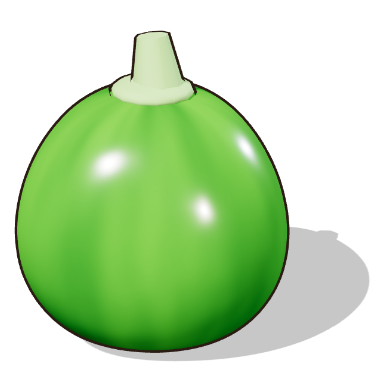
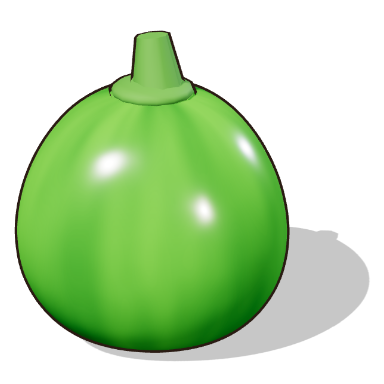
3D groceries batch 2: cans, bottles, jars, cartons, eggs, dairy (24 items); fix model colours
Claude-Session: https://claude.ai/code/session_01Q6acPGXMvifxRn5d1e25uG

Changed region(s): [[0.2812, 0.0625, 0.5, 0.2812]]

diff --git a/tools/render3d/models2.js b/tools/render3d/models2.js
@@ -1,0 +1,110 @@
+// Batch 2: cans, bottles, jars, cartons, eggs, dairy blocks. Real sizes in cm. Labels are painted on canvases.
+import { INK, lin } from './models.js';
+const clamp = (x, a = 0, b = 1) => Math.min(b, Math.max(a, x));
+function label(T, fn, w = 1024, h = 512) { const c = document.createElement('canvas'); c.width = w; c.height = h; const g = c.getContext('2d'); fn(g, w, h); const t = new T.CanvasTexture(c); t.encoding = T.sRGBEncoding; t.anisotropy = 8; return t; }
+const std = (T, o) => new T.MeshPhysicalMaterial(Object.assign({ roughness: .4, metalness: 0, clearcoat: .35, clearcoatRoughness: .3 }, o, o.color !== undefined ? { color: lin(T, o.color) } : {}));
+const metal = (T) => new T.MeshStandardMaterial({ color: lin(T, 0xd9dee3), metalness: .55, roughness: .38 });
+function add(T, G, geo, m, p, r, s) { const x = new T.Mesh(geo, m); x.castShadow = x.receiveShadow = true; if (p) x.position.set(...p); if (r) x.rotation.set(...r); if (s) x.scale.set(...s); G.add(x); return x; }
+// the front of a wrapped label is at the middle of the canvas (u = .5)
+const front = (m) => { m.rotation.y = Math.PI - .35; return m; };
+const rr = (g, x, y, w, h, r) => { g.beginPath(); g.moveTo(x + r, y); g.arcTo(x + w, y, x + w, y + h, r); g.arcTo(x + w, y + h, x, y + h, r); g.arcTo(x, y + h, x, y, r); g.arcTo(x, y, x + w, y, r); g.closePath(); };
+const circ = (g, x, y, r, c, ink) => { g.beginPath(); g.arc(x, y, r, 0, 7); g.fillStyle = c; g.fill(); if (ink) { g.strokeStyle = INK; g.lineWidth = ink; g.stroke(); } };
+
+function can(T, o) {
+  const G = new T.Group(); const { r, h } = o;
+  const tex = label(T, (g, w, hh) => { g.fillStyle = o.paper; g.fillRect(0, 0, w, hh); g.fillStyle = o.band; g.fillRect(0, 0, w, hh * .13); g.fillRect(0, hh * .87, w, hh * .13);
+    g.fillStyle = 'rgba(255,255,255,.92)'; rr(g, w * .27, hh * .2, w * .46, hh * .6, 40); g.fill(); g.strokeStyle = o.band; g.lineWidth = 8; g.stroke(); o.icon(g, w * .5, hh * .5, hh); });
+  front(add(T, G, new T.CylinderGeometry(r, r, h, 72, 1, true), std(T, { map: tex, roughness: .5, clearcoat: .2 }), [0, 0, 0]));
+  add(T, G, new T.CylinderGeometry(r * .985, r * .985, .3, 72), metal(T), [0, h / 2 - .1, 0]); add(T, G, new T.CylinderGeometry(r * .985, r * .985, .3, 72), metal(T), [0, -h / 2 + .1, 0]);
+  add(T, G, new T.TorusGeometry(r * .985, .13, 10, 72), metal(T), [0, h / 2 + .05, 0], [Math.PI / 2, 0, 0]); add(T, G, new T.TorusGeometry(r * .985, .13, 10, 72), metal(T), [0, -h / 2 - .05, 0], [Math.PI / 2, 0, 0]);
+  add(T, G, new T.TorusGeometry(r * .6, .06, 8, 40), metal(T), [0, h / 2 + .12, 0], [Math.PI / 2, 0, 0]); G.rotation.y = 0; return { g: G, dims: [r * 2, h, r * 2] };
+}
+function bottle(T, o) {
+  const G = new T.Group(); const { r, h, nr, nh } = o; // body radius, total height, neck radius, neck height
+  const pts = []; const sh = h - nh - (o.cap || 2); const bodyTop = -h / 2 + sh;
+  pts.push([0.001, -h / 2]); pts.push([r * .7, -h / 2 + .05]); pts.push([r * .97, -h / 2 + r * .25]); pts.push([r, -h / 2 + r * .6]); pts.push([r, bodyTop - r * .7]);
+  for (let i = 1; i <= 10; i++) { const t = i / 10, e = t * t * (3 - 2 * t); pts.push([r + (nr - r) * e, bodyTop - r * .7 + (r * .7 + r * .5) * t]); }
+  pts.push([nr, h / 2 - (o.cap || 2) - .1]);
+  const geo = new T.LatheGeometry(pts.map((p) => new T.Vector2(p[0], p[1])), 72);
+  const tex = label(T, (g, w, hh) => { g.fillStyle = o.glass; g.fillRect(0, 0, w, hh); o.label(g, w, hh); });
+  const body = new T.Mesh(geo, std(T, { map: tex, roughness: .12, clearcoat: 1, clearcoatRoughness: .05 })); body.castShadow = body.receiveShadow = true; front(body); G.add(body);
+  add(T, G, new T.CylinderGeometry(nr * 1.08, nr * 1.08, o.cap || 2, 40), std(T, { color: o.capColor, roughness: .35, clearcoat: .5 }), [0, h / 2 - (o.cap || 2) / 2, 0]);
+  if (o.tip) add(T, G, new T.CylinderGeometry(nr * .5, nr * .8, 1.4, 20), std(T, { color: o.capColor }), [0, h / 2 + .5, 0]);
+  return { g: G, dims: [r * 2, h, r * 2] };
+}
+function jar(T, o) {
+  const G = new T.Group(); const { r, h } = o; const lid = o.lid || 1.9;
+  const tex = label(T, (g, w, hh) => { g.fillStyle = o.fill; g.fillRect(0, 0, w, hh); const grd = g.createLinearGradient(0, 0, 0, hh); grd.addColorStop(0, 'rgba(255,255,255,.18)'); grd.addColorStop(1, 'rgba(0,0,0,.12)'); g.fillStyle = grd; g.fillRect(0, 0, w, hh);
+    g.fillStyle = o.paper; rr(g, w * .22, hh * .22, w * .56, hh * .56, 28); g.fill(); g.strokeStyle = o.band; g.lineWidth = 10; g.stroke(); o.icon(g, w * .5, hh * .5, hh); });
+  front(add(T, G, new T.CylinderGeometry(r, r * .97, h - lid, 72, 1, true), std(T, { map: tex, roughness: .12, clearcoat: 1, clearcoatRoughness: .06 }), [0, -lid / 2, 0]));
+  add(T, G, new T.CylinderGeometry(r * .97, r * .97, .3, 72), std(T, { color: o.fill }), [0, -h / 2 + .15, 0]);
+  add(T, G, new T.CylinderGeometry(r * 1.03, r * 1.03, lid, 72), std(T, { color: o.lidColor, roughness: .35, clearcoat: .5 }), [0, h / 2 - lid / 2, 0]);
+  for (let i = 0; i < 36; i++) { const a = i / 36 * 6.283; add(T, G, new T.BoxGeometry(.12, lid * .8, .12), std(T, { color: o.lidColor, roughness: .45 }), [Math.cos(a) * r * 1.035, h / 2 - lid / 2, Math.sin(a) * r * 1.035]); }
+  return { g: G, dims: [r * 2, h, r * 2] };
+}
+function carton(T, o) {
+  const G = new T.Group(); const w = o.w, d = o.w, h = o.h, g0 = o.gable || w * .55;
+  const tex = (front) => label(T, (g, W, H) => { g.fillStyle = o.paper; g.fillRect(0, 0, W, H); g.fillStyle = o.band; g.fillRect(0, H * .52, W, H * .2); if (front) o.icon(g, W * .5, H * .3, H); }, 512, 1024);
+  const side = std(T, { map: tex(false), roughness: .55, clearcoat: .2 }), fr = std(T, { map: tex(true), roughness: .55, clearcoat: .2 });
+  const box = add(T, G, new T.BoxGeometry(w, h, d), [side, side, side, side, fr, side].map((m) => m)); // +x,-x,+y,-y,+z,-z
+  box.material = [side, side, side, side, fr, side]; box.position.y = 0;
+  // gable roof: two slanted panels and two triangular ends
+  const roof = std(T, { color: o.paper, roughness: .55, clearcoat: .2 }), rf = o.roofColor ? std(T, { color: o.roofColor, roughness: .55 }) : roof;
+  const sl = Math.hypot(w / 2, g0); const ang = Math.atan2(g0, w / 2);
+  add(T, G, new T.BoxGeometry(sl, .12, d), roof, [-w / 4, h / 2 + g0 / 2, 0], [0, 0, ang]); add(T, G, new T.BoxGeometry(sl, .12, d), roof, [w / 4, h / 2 + g0 / 2, 0], [0, 0, -ang]);
+  const tri = new T.Shape(); tri.moveTo(-w / 2, 0); tri.lineTo(w / 2, 0); tri.lineTo(0, g0); tri.lineTo(-w / 2, 0);
+  for (const z of [d / 2, -d / 2]) add(T, G, new T.ShapeGeometry(tri), std(T, { color: o.paper, side: T.DoubleSide, roughness: .55 }), [0, h / 2, z]);
+  add(T, G, new T.BoxGeometry(.22, .45, d * 1.04), roof, [0, h / 2 + g0 + .15, 0]);
+  if (o.cap) add(T, G, new T.CylinderGeometry(1.1, 1.2, .8, 24), std(T, { color: o.cap, roughness: .35 }), [w * .17, h / 2 + g0 * .6, d * .05], [0, 0, -ang]);
+  G.rotation.y = -.35; return { g: G, dims: [w, h + g0, d] };
+}
+const bandIcon = (c) => (g, x, y, H) => { g.fillStyle = c; g.beginPath(); g.arc(x, y, H * .1, 0, 7); g.fill(); };
+const tomatoIcon = (g, x, y, H) => { circ(g, x, y, H * .17, '#d9362b', 6); g.fillStyle = '#4a9a2e'; g.beginPath(); g.moveTo(x - 24, y - H * .15); g.lineTo(x, y - H * .22); g.lineTo(x + 24, y - H * .15); g.fill(); };
+const beanIcon = (c) => (g, x, y, H) => { for (const [dx, dy] of [[-40, -16], [30, -24], [-12, 22], [44, 18]]) { g.save(); g.translate(x + dx, y + dy); g.rotate(dx / 60); g.beginPath(); g.ellipse(0, 0, 34, 20, 0, 0, 7); g.fillStyle = c; g.fill(); g.strokeStyle = INK; g.lineWidth = 5; g.stroke(); g.restore(); } };
+const dropIcon = (c) => (g, x, y, H) => { g.fillStyle = c; g.beginPath(); g.moveTo(x, y - H * .16); g.bezierCurveTo(x + H * .2, y + H * .02, x + H * .12, y + H * .18, x, y + H * .18); g.bezierCurveTo(x - H * .12, y + H * .18, x - H * .2, y + H * .02, x, y - H * .16); g.fill(); g.strokeStyle = INK; g.lineWidth = 6; g.stroke(); };
+const stripe = (bg, fg, txt) => (g, w, h) => { g.fillStyle = fg; rr(g, w * .3, h * .25, w * .4, h * .5, 26); g.fill(); g.fillStyle = bg; g.fillRect(w * .3, h * .46, w * .4, h * .1); if (txt) { g.fillStyle = bg; g.font = 'bold 54px Arial'; g.textAlign = 'center'; g.fillText(txt, w * .5, h * .4); } };
+
+export const MODELS2 = {
+  can_tomato: (T) => can(T, { r: 3.65, h: 10.8, paper: '#c8281f', band: '#f2c14e', icon: tomatoIcon }),
+  can_beans: (T) => can(T, { r: 3.65, h: 10.8, paper: '#7a4a2a', band: '#e0a93b', icon: beanIcon('#c9864a') }),
+  can_black: (T) => can(T, { r: 3.65, h: 10.8, paper: '#3a3636', band: '#c9cdd2', icon: beanIcon('#1f1c1c') }),
+  can_chickpea: (T) => can(T, { r: 3.65, h: 10.8, paper: '#d9a84a', band: '#7a4a2a', icon: beanIcon('#f0d58f') }),
+  can_coconut: (T) => can(T, { r: 3.65, h: 11, paper: '#f0ede4', band: '#2f7a4a', icon: (g, x, y, H) => { circ(g, x, y, H * .17, '#7a5230', 6); circ(g, x - 22, y - 14, 10, '#3b2c24'); circ(g, x + 14, y - 22, 10, '#3b2c24'); circ(g, x + 6, y - 2, 10, '#3b2c24'); } }),
+  oil: (T) => bottle(T, { r: 4.6, h: 28, nr: 1.5, nh: 6, cap: 2, glass: '#e8c440', capColor: 0x3f7f25, capColor2: 0, tip: false, label: (g, w, h) => { g.fillStyle = '#f6efd2'; rr(g, w * .3, h * .3, w * .4, h * .42, 24); g.fill(); g.strokeStyle = '#3f7f25'; g.lineWidth = 8; g.stroke(); dropIcon('#9cbf4e')(g, w * .5, h * .52, h); } }),
+  soy: (T) => bottle(T, { r: 3.4, h: 17, nr: 1.2, nh: 3.6, cap: 1.6, glass: '#2a170f', capColor: 0xd9452b, label: (g, w, h) => { g.fillStyle = '#e8dcc0'; rr(g, w * .3, h * .3, w * .4, h * .4, 22); g.fill(); g.strokeStyle = '#d9452b'; g.lineWidth = 8; g.stroke(); circ(g, w * .5, h * .5, h * .07, '#d9452b'); } }),
+  fishsauce: (T) => bottle(T, { r: 3.5, h: 23, nr: 1.3, nh: 5, cap: 1.8, glass: '#c9762e', capColor: 0xd9452b, label: (g, w, h) => { g.fillStyle = '#f6e3b4'; rr(g, w * .3, h * .3, w * .4, h * .4, 22); g.fill(); g.strokeStyle = '#9c4a1a'; g.lineWidth = 8; g.stroke(); } }),
+  vinegar: (T) => bottle(T, { r: 4.2, h: 24, nr: 1.5, nh: 5.5, cap: 2, glass: '#f4ecd0', capColor: 0x2f6db5, label: (g, w, h) => { g.fillStyle = '#ffffff'; rr(g, w * .3, h * .32, w * .4, h * .38, 22); g.fill(); g.strokeStyle = '#2f6db5'; g.lineWidth = 8; g.stroke(); dropIcon('#2f6db5')(g, w * .5, h * .5, h * .8); } }),
+  hotsauce: (T) => bottle(T, { r: 2.6, h: 17, nr: 1.1, nh: 4, cap: 1.5, glass: '#d9452b', capColor: 0x3f7f25, tip: true, label: (g, w, h) => { g.fillStyle = '#f6e3b4'; rr(g, w * .3, h * .38, w * .4, h * .34, 18); g.fill(); g.strokeStyle = '#7a1e12'; g.lineWidth = 7; g.stroke(); } }),
+  ketchup: (T) => bottle(T, { r: 4.3, h: 20, nr: 1.9, nh: 4.5, cap: 2.4, glass: '#d2301f', capColor: 0xffffff, label: (g, w, h) => { g.fillStyle = '#ffffff'; rr(g, w * .3, h * .34, w * .4, h * .34, 22); g.fill(); g.strokeStyle = '#a81f14'; g.lineWidth = 8; g.stroke(); circ(g, w * .5, h * .51, h * .07, '#d2301f', 5); } }),
+  wine: (T) => bottle(T, { r: 3.75, h: 31, nr: 1.5, nh: 9.5, cap: 3.4, glass: '#2c1b22', capColor: 0x8a1530, label: (g, w, h) => { g.fillStyle = '#efe3c4'; rr(g, w * .28, h * .42, w * .44, h * .32, 14); g.fill(); g.strokeStyle = '#8a1530'; g.lineWidth = 6; g.stroke(); } }),
+  honey: (T) => jar(T, { r: 3.6, h: 12.5, fill: '#e6a319', paper: '#fff4d2', band: '#9c5c06', lidColor: 0x4a2f1a, lid: 2.2, icon: (g, x, y, H) => { g.fillStyle = '#e6a319'; for (let i = 0; i < 3; i++) { const cx = x + (i - 1) * 40; g.beginPath(); for (let k = 0; k < 6; k++) { const a = k / 6 * 6.283 + .5; g.lineTo(cx + Math.cos(a) * 22, y + Math.sin(a) * 22); } g.closePath(); g.fill(); g.strokeStyle = INK; g.lineWidth = 4; g.stroke(); } } }),
+  salsa: (T) => jar(T, { r: 4, h: 13.5, fill: '#c63a1a', paper: '#fff0d4', band: '#c63a1a', lidColor: 0xd9452b, lid: 2, icon: tomatoIcon }),
+  peanut_butter: (T) => jar(T, { r: 4.9, h: 12, fill: '#b87a3e', paper: '#f6e3b4', band: '#8a4a1a', lidColor: 0xc8352f, lid: 2.4, icon: (g, x, y, H) => { for (const dx of [-20, 20]) { g.beginPath(); g.ellipse(x + dx, y, 22, 32, 0, 0, 7); g.fillStyle = '#d9a35c'; g.fill(); g.strokeStyle = INK; g.lineWidth = 5; g.stroke(); } } }),
+  milk: (T) => carton(T, { w: 9.5, h: 17, gable: 6, paper: '#ffffff', band: '#5aa9e6', cap: '#5aa9e6', icon: (g, x, y, H) => { dropIcon('#5aa9e6')(g, x, y + H * .02, H * .9); } }),
+  cream: (T) => carton(T, { w: 7, h: 11.5, gable: 4.6, paper: '#fff6e4', band: '#f2c14e', cap: '#f2c14e', icon: bandIcon('#f2c14e') }),
+  juice: (T) => carton(T, { w: 9.5, h: 17, gable: 6, paper: '#fbfaf5', band: '#f28c28', cap: '#f28c28', icon: (g, x, y, H) => { circ(g, x, y, H * .12, '#f28c28', 6); g.fillStyle = '#4a9a2e'; g.beginPath(); g.ellipse(x + 20, y - H * .13, 26, 12, -.5, 0, 7); g.fill(); } }),
+  egg: (T) => {
+    const G = new T.Group(); const mk = (c, x, z, ry, rz) => { const geo = new T.SphereGeometry(1, 64, 64); const p = geo.attributes.position; for (let i = 0; i < p.count; i++) { const y = p.getY(i); const k = 1 - .12 * y; p.setXYZ(i, p.getX(i) * 2.2 * k, y * 2.85, p.getZ(i) * 2.2 * k); } geo.computeVertexNormals();
+      const m = add(T, G, geo, std(T, { color: c, roughness: .45, clearcoat: .25 }), [x, 0, z], [rz, ry, 0]); return m; };
+    mk(0xf8efe0, -2.1, .3, .3, .1); mk(0xd9a56c, 2.4, -.2, -.5, -.08); G.rotation.y = -.3; return { g: G, dims: [9, 5.7, 5] };
+  },
+  butter: (T) => {
+    const G = new T.Group(); const wrapTex = label(T, (g, w, h) => { g.fillStyle = '#ffffff'; g.fillRect(0, 0, w, h); g.fillStyle = '#5aa9e6'; g.fillRect(0, h * .35, w, h * .3); g.fillStyle = '#fff'; g.font = 'bold 120px Arial'; g.textAlign = 'center'; g.fillText('BUTTER', w * .5, h * .58); });
+    add(T, G, new T.BoxGeometry(8.5, 3.2, 3.2), std(T, { map: wrapTex, roughness: .55, clearcoat: .1 }), [-1.5, 0, 0]);
+    add(T, G, new T.BoxGeometry(3.4, 3.2, 3.2), std(T, { color: 0xffe07a, roughness: .35, clearcoat: .4 }), [4.6, 0, 0]); G.rotation.y = -.5; return { g: G, dims: [12, 3.2, 3.2] };
+  },
+  yogurt: (T) => {
+    const G = new T.Group(); const tex = label(T, (g, w, h) => { g.fillStyle = '#ffffff'; g.fillRect(0, 0, w, h); g.fillStyle = '#b5dcf2'; g.fillRect(0, h * .3, w, h * .4); circ(g, w * .5, h * .5, h * .12, '#ffffff', 6); });
+    front(add(T, G, new T.CylinderGeometry(5.1, 4, 9.5, 72, 1, true), std(T, { map: tex, roughness: .4, clearcoat: .2 }), [0, 0, 0]));
+    add(T, G, new T.CylinderGeometry(4, 4, .3, 60), std(T, { color: 0xffffff }), [0, -4.7, 0]); add(T, G, new T.CylinderGeometry(5.2, 5.2, .5, 72), metal(T), [0, 4.8, 0]); add(T, G, new T.TorusGeometry(5.1, .25, 10, 72), std(T, { color: 0xffffff }), [0, 4.6, 0], [Math.PI / 2, 0, 0]); return { g: G, dims: [10.2, 9.5, 10.2] };
+  },
+  cheddar: (T) => {
+    const G = new T.Group(); const sh = new T.Shape(); sh.moveTo(0, 0); sh.lineTo(13, 0); sh.lineTo(13, 3.6); sh.lineTo(0, 5.8); sh.lineTo(0, 0);
+    const geo = new T.ExtrudeGeometry(sh, { depth: 7, bevelEnabled: true, bevelSize: .15, bevelThickness: .15, bevelSegments: 3 }); geo.translate(-6.5, -2.9, -3.5);
+    const tex = label(T, (g, w, h) => { g.fillStyle = '#f2a73a'; g.fillRect(0, 0, w, h); for (let i = 0; i < 70; i++) { g.fillStyle = 'rgba(255,214,120,.35)'; g.beginPath(); g.arc(Math.random() * w, Math.random() * h, 6 + Math.random() * 16, 0, 7); g.fill(); } });
+    add(T, G, geo, std(T, { color: 0xf4a73b, roughness: .5, clearcoat: .15 })); for (const [x, y, z] of [[3, 0, 3.55], [-3, 1, 3.55], [1, -1.2, 3.55]]) add(T, G, new T.CylinderGeometry(.5, .5, .1, 14), std(T, { color: 0xc98320 }), [x, y, z], [Math.PI / 2, 0, 0]);
+    G.rotation.y = -.5; return { g: G, dims: [13, 5.8, 7] };
+  },
+  mozzarella: (T) => { const G = new T.Group(); add(T, G, new T.SphereGeometry(4.5, 64, 64), std(T, { color: 0xfdfcf6, roughness: .4, clearcoat: .55, clearcoatRoughness: .2 })); return { g: G, dims: [9, 9, 9] }; },
+  tofu: (T) => { const G = new T.Group(); add(T, G, new T.BoxGeometry(9.5, 3.8, 6), std(T, { color: 0xfffaea, roughness: .55, clearcoat: .1 })); const m = G.children[0]; m.geometry = new T.BoxGeometry(9.5, 3.8, 6, 1, 1, 1); G.rotation.y = -.45; return { g: G, dims: [9.5, 3.8, 6] }; }
+};

diff --git a/tools/render3d/models.js b/tools/render3d/models.js
@@ -25,9 +25,11 @@ function noiseBump(T, fx = .015, fy = .03) {
   g.putImageData(im, 0, 0); const t = new T.CanvasTexture(c); t.wrapS = T.RepeatWrapping; return t;
 }
 function mat(T, map, o = {}) {
-  return new T.MeshPhysicalMaterial({ map, bumpMap: o.bump ? noiseBump(T, o.bumpF || .015, o.bumpF2 || .03) : null, bumpScale: o.bumpScale ?? .05, roughness: o.rough ?? .4, metalness: 0, clearcoat: o.coat ?? .4, clearcoatRoughness: o.coatRough ?? .3, color: o.color || 0xffffff, side: o.side || T.FrontSide });
+  return new T.MeshPhysicalMaterial({ map, bumpMap: o.bump ? noiseBump(T, o.bumpF || .015, o.bumpF2 || .03) : null, bumpScale: o.bumpScale ?? .05, roughness: o.rough ?? .4, metalness: 0, clearcoat: o.coat ?? .4, clearcoatRoughness: o.coatRough ?? .3, color: o.color ? lin(T, o.color) : 0xffffff, side: o.side || T.FrontSide });
 }
-const plain = (T, c, o = {}) => new T.MeshStandardMaterial({ color: c, roughness: o.rough ?? .7, side: o.side || T.FrontSide });
+const lin = (T, c) => new T.Color(c).convertSRGBToLinear();
+export { lin };
+const plain = (T, c, o = {}) => new T.MeshStandardMaterial({ color: lin(T, c), roughness: o.rough ?? .7, side: o.side || T.FrontSide });
 
 // A body of revolution: f(yn, th) = radius factor (0..1.x), cav(phi, th) pulls the poles in/out. yn = cos(phi): +1 top … -1 bottom.
 function solid(T, o) {
@@ -141,7 +143,7 @@ export const MODELS = {
   broccoli(T) {
     const G = new T.Group(); const sm = plain(T, 0x7fb04f, { rough: .65 }); add(T, G, new T.CylinderGeometry(1.1, 1.6, 6, 14), sm, { pos: [0, -2.4, 0] });
     for (let i = 0; i < 4; i++) { const a = i / 4 * 6.28 + .5; add(T, G, new T.CylinderGeometry(.35, .6, 3.2, 8), sm, { pos: [Math.cos(a) * 1.3, 1.1, Math.sin(a) * 1.3], rot: [Math.sin(a) * .55, 0, -Math.cos(a) * .55] }); }
-    const fm = (k) => new T.MeshStandardMaterial({ color: new T.Color().setHSL(.33, .5, .12 + k * .05), roughness: .72 });
+    const fm = (k) => new T.MeshStandardMaterial({ color: new T.Color().setHSL(.33, .5, .16 + k * .06), roughness: .72 });
     for (let i = 0; i < 80; i++) { const a = hash(i, 1, 3) * 6.28, e = Math.acos(1 - hash(i, 2, 3) * .85), R = 3.6; const r = .55 + hash(i, 4, 3) * .5; add(T, G, new T.SphereGeometry(r, 12, 10), fm(hash(i, 5, 3)), { pos: [Math.sin(e) * Math.cos(a) * R * 1.2, 2.6 + Math.cos(e) * R * .8, Math.sin(e) * Math.sin(a) * R * 1.2] }); }
     G.rotation.y = .6; return { g: G, dims: [10, 11, 10] };
   },

diff --git a/lib/art/real3d.js b/lib/art/real3d.js
@@ -1,4 +1,4 @@
 // Groceries that have a real 3D model (tools/render3d). Their sprite lives in public/food3d/<key>.png.
 // Everything else still uses the drawn sticker until its model is built. Regenerated by tools/render3d/render.cjs.
-export const REAL3D = new Set(["apple", "tomato", "lemon", "lime", "onion", "red_onion", "garlic", "potato", "sweet_potato", "avocado", "banana", "carrot", "cucumber", "zucchini", "eggplant", "pepper", "green_pepper", "chili", "broccoli", "mushroom", "corn", "cabbage"]);
+export const REAL3D = new Set(["apple","tomato","lemon","lime","onion","red_onion","garlic","potato","sweet_potato","avocado","banana","carrot","cucumber","zucchini","eggplant","pepper","green_pepper","chili","broccoli","mushroom","corn","cabbage","can_tomato","can_beans","can_black","can_chickpea","can_coconut","oil","soy","fishsauce","vinegar","hotsauce","ketchup","wine","honey","salsa","peanut_butter","milk","cream","juice","egg","butter","yogurt","cheddar","mozzarella","tofu"]);
 export const real3dKey = (k) => (k === 'carrots' ? 'carrot' : k);

diff --git a/tools/render3d/index.html b/tools/render3d/index.html
@@ -1,7 +1,9 @@
 <html><body style="margin:0;background:transparent"><canvas id="c" width="1024" height="1024"></canvas>
 <script src="three.min.js"></script>
 <script type="module">
-import { MODELS, INK } from './models.js';
+import { MODELS as M1, INK } from './models.js';
+import { MODELS2 } from './models2.js';
+const MODELS = Object.assign({}, M1, MODELS2);
 const T = THREE;
 const renderer = new T.WebGLRenderer({ canvas: document.getElementById('c'), antialias: true, alpha: true, preserveDrawingBuffer: true });
 renderer.setSize(1024, 1024); renderer.outputEncoding = T.sRGBEncoding; renderer.toneMapping = T.ACESFilmicToneMapping; renderer.toneMappingExposure = 1.0;
